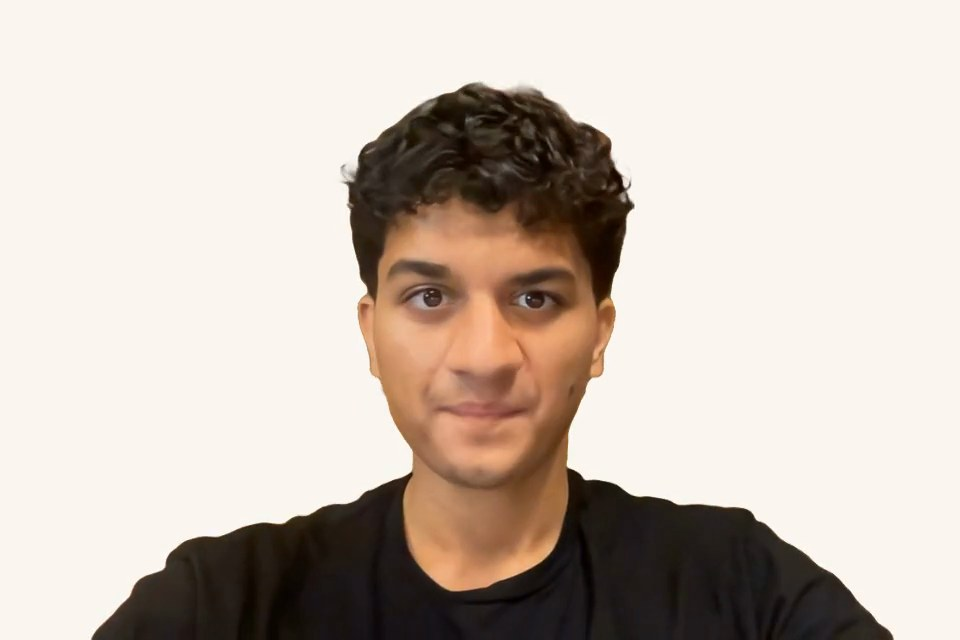
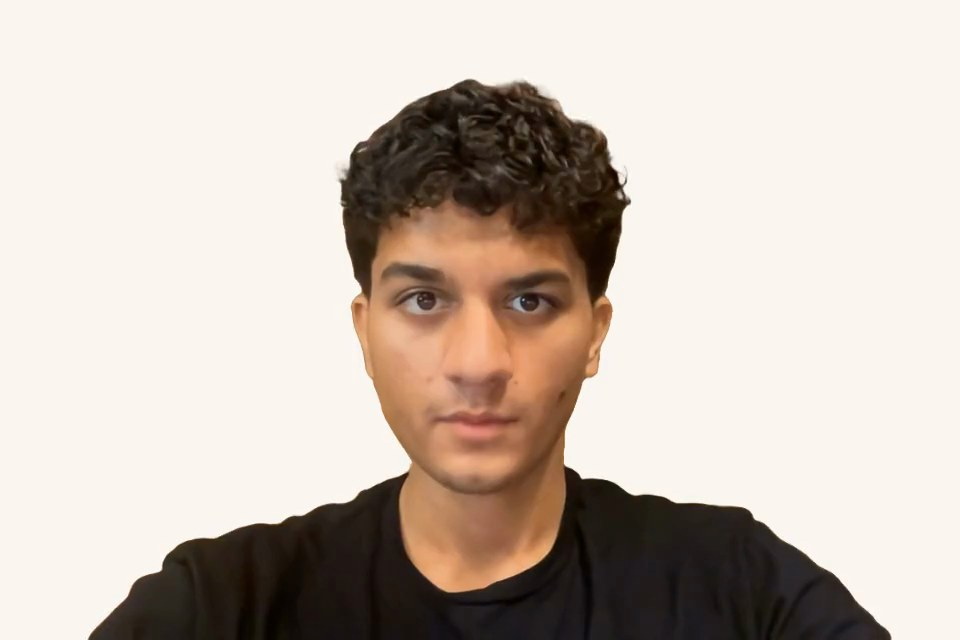
Videos: speed control tucked bottom right, slider on hover. Naga: new starting still.

diff --git a/components/OutreachPage.tsx b/components/OutreachPage.tsx
@@ -234,9 +234,7 @@ const Cutout: React.FC<{
       >
         ▶ play
       </button>
-      </div>
-      <label className="mt-3 flex items-center justify-center gap-2 font-sans text-[11px] text-[#a8a199]">
-        speed
+      <label className="speed group absolute right-1 bottom-2 flex items-center gap-1.5 px-2 py-1 rounded-full font-sans text-[10px] text-[#a8a199] hover:text-[#1b1b1b] focus-within:text-[#1b1b1b] cursor-pointer transition-colors duration-300">
         <input
           type="range"
           min={0.75}
@@ -245,10 +243,11 @@ const Cutout: React.FC<{
           value={speed}
           onChange={(e) => changeSpeed(Number(e.target.value))}
           aria-label="Playback speed"
-          className="w-28 cursor-pointer accent-[#B4532A]"
+          className="h-1 w-0 opacity-0 group-hover:w-16 group-hover:opacity-100 focus:w-16 focus:opacity-100 cursor-pointer accent-[#B4532A] transition-all duration-300"
         />
-        <span className="w-9 text-left tabular-nums text-[#1b1b1b]">{speed}×</span>
+        <span className="tabular-nums">{speed}× speed</span>
       </label>
+      </div>
     </div>
   );
 };
